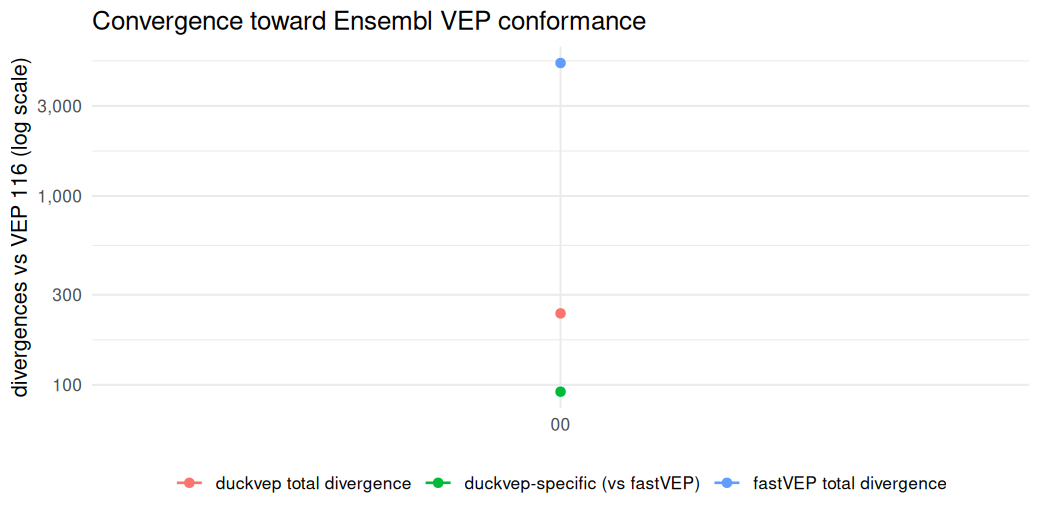
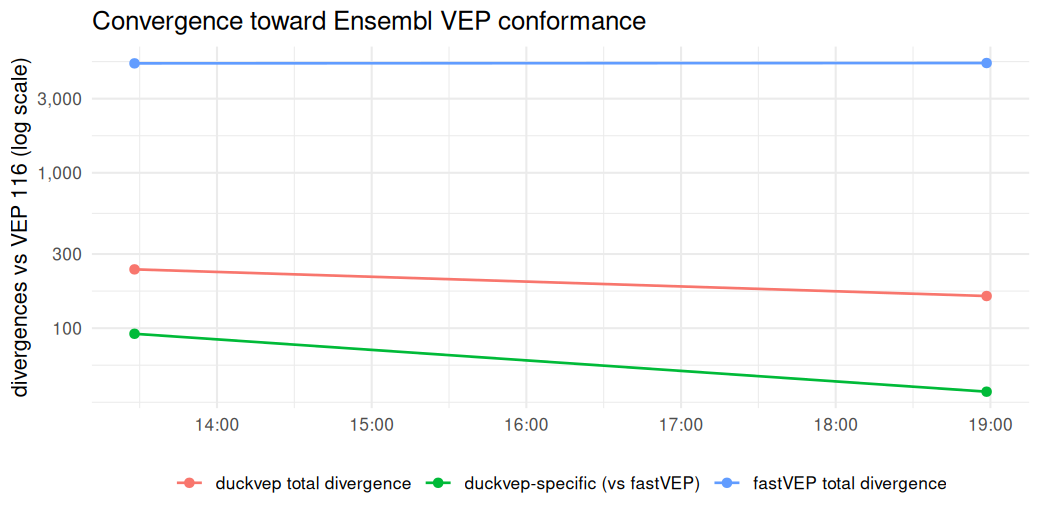
correctness: record the splice-fix win — duckvep 239->161 total, 92->39 specific (loop iter 4)
Full N=50000 ClinVar concordance after the predictor.rs splice-interval fix (82a3fa2):
  duckvep_total_divergence  239 -> 161  (-78)
  duckvep_specific_on_shared 92 -> 39   (-53, the splice-over-call sub-pattern closed)
  fastVEP unchanged (~5063); regression suite 35/35; witness fuzzer 71 / 0 duckvep-specific (no regression).

conformance_history.csv now has 2 runs, so the convergence plot shows the downward step; the README
and correctness.md headline numbers (read inline from the CSVs) update to 161/39 automatically. The
remaining 39 duckvep-specific are the inframe_insertion->protein_altering codon-projection sub-pattern.

diff --git a/correctness/correctness.md b/correctness/correctness.md
@@ -58,23 +58,24 @@ controlled VEP 116.
 | impact   | class |  pairs | duckvep err (rate) | fastvep err (rate) |
 |:---------|:------|-------:|:-------------------|:-------------------|
 | HIGH     | del   |  24631 | 16 (65/100K)       | 2146 (8713/100K)   |
-| HIGH     | ins   |  10447 | 81 (775/100K)      | 515 (4930/100K)    |
+| HIGH     | ins   |  10447 | 40 (383/100K)      | 515 (4930/100K)    |
 | HIGH     | mnv   |    312 | 0 (0/100K)         | 116 (37179/100K)   |
 | HIGH     | snv   |  43184 | 1 (2/100K)         | 20 (46/100K)       |
 | MODERATE | del   |   3570 | 0 (0/100K)         | 180 (5042/100K)    |
-| MODERATE | ins   |   1910 | 50 (2618/100K)     | 109 (5707/100K)    |
+| MODERATE | ins   |   1910 | 44 (2304/100K)     | 109 (5707/100K)    |
 | MODERATE | mnv   |   1484 | 0 (0/100K)         | 311 (20957/100K)   |
 | MODERATE | snv   | 407271 | 0 (0/100K)         | NA                 |
-| MODERATE | snv   | 407270 | NA                 | 1 (0/100K)         |
+| MODERATE | snv   | 407255 | NA                 | 1 (0/100K)         |
 | LOW      | del   |   7269 | 31 (426/100K)      | 1123 (15449/100K)  |
 | LOW      | ins   |   3522 | 0 (0/100K)         | 407 (11556/100K)   |
 | LOW      | mnv   |    174 | 0 (0/100K)         | 1 (575/100K)       |
-| LOW      | snv   | 212558 | 0 (0/100K)         | 37 (17/100K)       |
+| LOW      | snv   | 212558 | 0 (0/100K)         | NA                 |
+| LOW      | snv   | 212557 | NA                 | 37 (17/100K)       |
 | MODIFIER | del   |  36247 | 0 (0/100K)         | 20 (55/100K)       |
-| MODIFIER | ins   |  19351 | 31 (160/100K)      | 9 (47/100K)        |
+| MODIFIER | ins   |  19351 | 0 (0/100K)         | 9 (47/100K)        |
 | MODIFIER | mnv   |   2037 | 0 (0/100K)         | 0 (0/100K)         |
 | MODIFIER | snv   | 664797 | 0 (0/100K)         | NA                 |
-| MODIFIER | snv   | 664791 | NA                 | 30 (5/100K)        |
+| MODIFIER | snv   | 664781 | NA                 | 30 (5/100K)        |
 
 Error rate is **per 100,000 (variant, transcript) pairs** — comparable
 across classes despite very different pair counts.
@@ -86,7 +87,7 @@ across classes despite very different pair counts.
   below fastVEP (MODERATE 0/100K vs duckvep 0/100K), thanks to the
   incomplete-CDS / non-ATG-start patches (see `../docs/PATCHES.md`).
 - **Indels and MNVs are the residual frontier**, concentrated at HIGH
-  impact — duckvep error rate HIGH del 65/100K, HIGH ins 775/100K, HIGH
+  impact — duckvep error rate HIGH del 65/100K, HIGH ins 383/100K, HIGH
   mnv 0/100K (vs SNV 2/100K). These are the clinically actionable sites
   an aggregate % would bury.
 - **The indel/MNV frontier is partly duckvep-specific.** Engines are
@@ -94,9 +95,9 @@ across classes despite very different pair counts.
   normalized form — VEP and duckvep 3’-shift indels differently, so a
   normalized-key join compares mismatched pairs and hides real
   regressions; that earlier join was a measurement artifact). On this
-  keying, duckvep diverges on 210 shared pairs + 29 emission = 239
-  total, of which **92 are duckvep-specific** (fastVEP matches VEP), vs
-  fastVEP’s 5,063. Those are boundary indels where VEP 3’-shifts the
+  keying, duckvep diverges on 132 shared pairs + 29 emission = 161
+  total, of which **39 are duckvep-specific** (fastVEP matches VEP), vs
+  fastVEP’s 5,089. Those are boundary indels where VEP 3’-shifts the
   allele before calling consequence; the rest are gaps shared with
   fastVEP.
 
@@ -126,19 +127,19 @@ so the split between duckvep-specific regressions and gaps shared with
 fastVEP is visible; generated from
 `correctness/data/discordance_by_consequence.csv`:
 
-| SO term (VEP)            | impact |  pairs | duckvep disc (rate) | fastvep disc (rate) |
-|:-------------------------|:-------|-------:|:--------------------|:--------------------|
-| frameshift_variant       | HIGH   | 31,901 | 67 (210/100K)       | 537 (1683/100K)     |
-| stop_gained              | HIGH   | 17,777 | 58 (326/100K)       | 484 (2723/100K)     |
-| NMD_transcript_variant   | HIGH   | 14,954 | 39 (261/100K)       | 666 (4454/100K)     |
-| protein_altering_variant | HIGH   |     22 | 14 (63636/100K)     | 22 (100000/100K)    |
-| start_lost               | HIGH   |    888 | 7 (788/100K)        | 111 (12500/100K)    |
-| stop_lost                | HIGH   |    405 | 7 (1728/100K)       | 71 (17531/100K)     |
-| 5_prime_UTR_variant      | HIGH   |    175 | 5 (2857/100K)       | 161 (92000/100K)    |
-| 3_prime_UTR_variant      | HIGH   |    363 | 1 (275/100K)        | 303 (83471/100K)    |
-| intron_variant           | HIGH   |  1,696 | 1 (59/100K)         | 1696 (100000/100K)  |
-| splice_acceptor_variant  | HIGH   | 12,150 | 1 (8/100K)          | 841 (6922/100K)     |
-| stop_retained_variant    | HIGH   |     37 | 1 (2703/100K)       | 37 (100000/100K)    |
+| SO term (VEP)               | impact |  pairs | duckvep disc (rate) | fastvep disc (rate) |
+|:----------------------------|:-------|-------:|:--------------------|:--------------------|
+| intron_variant              | HIGH   |  1,696 | 40 (2358/100K)      | 1696 (100000/100K)  |
+| splice_donor_region_variant | HIGH   |    326 | 39 (11963/100K)     | 326 (100000/100K)   |
+| splice_donor_variant        | HIGH   | 16,028 | 39 (243/100K)       | 1328 (8286/100K)    |
+| NMD_transcript_variant      | HIGH   | 14,954 | 14 (94/100K)        | 666 (4454/100K)     |
+| start_lost                  | HIGH   |    888 | 7 (788/100K)        | 111 (12500/100K)    |
+| stop_lost                   | HIGH   |    405 | 7 (1728/100K)       | 71 (17531/100K)     |
+| 5_prime_UTR_variant         | HIGH   |    175 | 5 (2857/100K)       | 161 (92000/100K)    |
+| 3_prime_UTR_variant         | HIGH   |    363 | 1 (275/100K)        | 303 (83471/100K)    |
+| frameshift_variant          | HIGH   | 31,901 | 1 (3/100K)          | 537 (1683/100K)     |
+| splice_acceptor_variant     | HIGH   | 12,150 | 1 (8/100K)          | 841 (6922/100K)     |
+| stop_retained_variant       | HIGH   |     37 | 1 (2703/100K)       | 37 (100000/100K)    |
 
 A pair is discordant when its **whole** `&`-joined SO set differs; this
 table credits that to each term VEP called, so a 100% rate means *every*
@@ -162,24 +163,24 @@ than the upstream engine** (something our patches broke), `shared` =
 both engines differ from VEP (an inherited engine gap). Generated from
 `correctness/data/error_transitions.csv`.
 
-| type       | impact   | VEP calls                                                                    | duckvep calls                                                                                |   n |
-|:-----------|:---------|:-----------------------------------------------------------------------------|:---------------------------------------------------------------------------------------------|----:|
-| shared     | LOW      | stop_retained_variant                                                        | stop_lost                                                                                    |  28 |
-| shared     | HIGH     | NMD_transcript_variant&frameshift_variant&stop_gained                        | NMD_transcript_variant&frameshift_variant&intron_variant&splice_acceptor_variant&stop_gained |  28 |
-| regression | HIGH     | frameshift_variant                                                           | frameshift_variant&splice_region_variant                                                     |  21 |
-| regression | MODERATE | NMD_transcript_variant&inframe_insertion&splice_region_variant               | NMD_transcript_variant&protein_altering_variant&splice_region_variant                        |  20 |
-| regression | MODERATE | inframe_insertion&splice_region_variant                                      | protein_altering_variant&splice_region_variant                                               |  19 |
-| shared     | HIGH     | frameshift_variant&stop_gained                                               | frameshift_variant&intron_variant&splice_acceptor_variant&stop_gained                        |  16 |
-| shared     | HIGH     | protein_altering_variant&stop_gained                                         | protein_altering_variant&splice_region_variant&stop_gained                                   |  12 |
-| regression | MODIFIER | 5_prime_UTR_variant&NMD_transcript_variant                                   | 5_prime_UTR_variant&NMD_transcript_variant&intron_variant&splice_acceptor_variant            |  10 |
-| regression | MODIFIER | 5_prime_UTR_variant                                                          | 5_prime_UTR_variant&intron_variant&splice_acceptor_variant                                   |   9 |
-| regression | MODIFIER | non_coding_transcript_exon_variant                                           | intron_variant&non_coding_transcript_exon_variant&splice_acceptor_variant                    |   7 |
-| shared     | HIGH     | NMD_transcript_variant&stop_lost                                             | NMD_transcript_variant&inframe_deletion&stop_lost                                            |   6 |
-| shared     | MODERATE | protein_altering_variant                                                     | intron_variant&protein_altering_variant&splice_donor_5th_base_variant&splice_donor_variant   |   5 |
-| shared     | MODERATE | inframe_insertion&stop_retained_variant                                      | inframe_insertion&stop_gained                                                                |   3 |
-| regression | MODIFIER | 3_prime_UTR_variant&NMD_transcript_variant                                   | 3_prime_UTR_variant&NMD_transcript_variant&intron_variant&splice_acceptor_variant            |   2 |
-| shared     | HIGH     | 5_prime_UTR_variant&start_lost                                               | 5_prime_UTR_variant&coding_sequence_variant                                                  |   2 |
-| shared     | HIGH     | 5_prime_UTR_variant&NMD_transcript_variant&start_lost&start_retained_variant | 5_prime_UTR_variant&NMD_transcript_variant&start_lost                                        |   2 |
+| type       | impact   | VEP calls                                                                              | duckvep calls                                                                                                                |   n |
+|:-----------|:---------|:---------------------------------------------------------------------------------------|:-----------------------------------------------------------------------------------------------------------------------------|----:|
+| shared     | HIGH     | intron_variant&splice_donor_region_variant&splice_donor_variant                        | intron_variant&splice_donor_region_variant                                                                                   |  33 |
+| shared     | LOW      | stop_retained_variant                                                                  | stop_lost                                                                                                                    |  28 |
+| regression | MODERATE | NMD_transcript_variant&inframe_insertion&splice_region_variant                         | NMD_transcript_variant&protein_altering_variant&splice_region_variant                                                        |  20 |
+| regression | MODERATE | inframe_insertion&splice_region_variant                                                | protein_altering_variant&splice_region_variant                                                                               |  19 |
+| shared     | HIGH     | NMD_transcript_variant&stop_lost                                                       | NMD_transcript_variant&inframe_deletion&stop_lost                                                                            |   6 |
+| shared     | HIGH     | NMD_transcript_variant&intron_variant&splice_donor_region_variant&splice_donor_variant | NMD_transcript_variant&intron_variant&splice_donor_region_variant                                                            |   6 |
+| shared     | MODERATE | inframe_insertion&stop_retained_variant                                                | inframe_insertion&stop_gained                                                                                                |   3 |
+| shared     | HIGH     | transcript_ablation                                                                    | intron_variant&non_coding_transcript_exon_variant&splice_acceptor_variant&splice_donor_5th_base_variant&splice_donor_variant |   2 |
+| shared     | HIGH     | 5_prime_UTR_variant&NMD_transcript_variant&start_lost&start_retained_variant           | 5_prime_UTR_variant&NMD_transcript_variant&start_lost                                                                        |   2 |
+| shared     | MODERATE | inframe_insertion&splice_region_variant&stop_retained_variant                          | inframe_insertion&splice_region_variant&stop_gained                                                                          |   2 |
+| shared     | HIGH     | 5_prime_UTR_variant&start_lost                                                         | 5_prime_UTR_variant&coding_sequence_variant                                                                                  |   2 |
+| shared     | LOW      | 3_prime_UTR_variant&coding_sequence_variant&incomplete_terminal_codon_variant          | 3_prime_UTR_variant&coding_sequence_variant                                                                                  |   1 |
+| shared     | HIGH     | 5_prime_UTR_variant&start_lost&start_retained_variant                                  | 5_prime_UTR_variant&start_lost                                                                                               |   1 |
+| shared     | HIGH     | frameshift_variant&stop_lost                                                           | frameshift_variant                                                                                                           |   1 |
+| shared     | HIGH     | 3_prime_UTR_variant&intron_variant&splice_acceptor_variant&stop_retained_variant       | 3_prime_UTR_variant&coding_sequence_variant&intron_variant&splice_acceptor_variant                                           |   1 |
+| shared     | HIGH     | transcript_ablation                                                                    | 3_prime_UTR_variant&5_prime_UTR_variant&coding_sequence_variant                                                              |   1 |
 
 ### Split by SO term (fair to fastVEP)
 
@@ -196,29 +197,28 @@ is not masked by the rest of its string. Generated from
 
 | type       | impact   | VEP term(s)                                        | duckvep term(s)                                                                                                              |   n |
 |:-----------|:---------|:---------------------------------------------------|:-----------------------------------------------------------------------------------------------------------------------------|----:|
-| regression | HIGH     | (none)                                             | intron_variant&splice_acceptor_variant                                                                                       |  44 |
+| shared     | HIGH     | splice_donor_variant                               | (none)                                                                                                                       |  39 |
 | regression | MODERATE | inframe_insertion                                  | protein_altering_variant                                                                                                     |  39 |
-| regression | HIGH     | (none)                                             | splice_region_variant                                                                                                        |  36 |
 | shared     | LOW      | stop_retained_variant                              | stop_lost                                                                                                                    |  28 |
-| regression | MODIFIER | (none)                                             | intron_variant&splice_acceptor_variant                                                                                       |  28 |
 | shared     | HIGH     | (none)                                             | inframe_deletion                                                                                                             |   6 |
-| regression | MODERATE | (none)                                             | intron_variant&splice_donor_5th_base_variant&splice_donor_variant                                                            |   6 |
 | shared     | MODERATE | stop_retained_variant                              | stop_gained                                                                                                                  |   5 |
 | shared     | HIGH     | start_retained_variant                             | (none)                                                                                                                       |   4 |
-| regression | MODIFIER | (none)                                             | intron_variant&splice_donor_5th_base_variant&splice_donor_variant                                                            |   2 |
-| shared     | HIGH     | transcript_ablation                                | intron_variant&non_coding_transcript_exon_variant&splice_acceptor_variant&splice_donor_5th_base_variant&splice_donor_variant |   2 |
 | shared     | HIGH     | start_lost                                         | coding_sequence_variant                                                                                                      |   2 |
-| shared     | LOW      | (none)                                             | splice_region_variant                                                                                                        |   1 |
-| shared     | HIGH     | stop_retained_variant                              | coding_sequence_variant                                                                                                      |   1 |
-| shared     | LOW      | incomplete_terminal_codon_variant                  | (none)                                                                                                                       |   1 |
+| shared     | HIGH     | transcript_ablation                                | intron_variant&non_coding_transcript_exon_variant&splice_acceptor_variant&splice_donor_5th_base_variant&splice_donor_variant |   2 |
+| shared     | HIGH     | transcript_ablation                                | 3_prime_UTR_variant&5_prime_UTR_variant&coding_sequence_variant                                                              |   1 |
 | shared     | HIGH     | inframe_deletion&start_lost&start_retained_variant | coding_sequence_variant                                                                                                      |   1 |
+| shared     | LOW      | (none)                                             | splice_region_variant                                                                                                        |   1 |
+| shared     | LOW      | stop_retained_variant                              | coding_sequence_variant                                                                                                      |   1 |
+| shared     | HIGH     | stop_retained_variant                              | coding_sequence_variant                                                                                                      |   1 |
+| shared     | HIGH     | stop_lost                                          | (none)                                                                                                                       |   1 |
+| shared     | LOW      | incomplete_terminal_codon_variant                  | (none)                                                                                                                       |   1 |
 
-At the SO-term level, **156 pairs** are duckvep-specific (fastVEP right
+At the SO-term level, **39 pairs** are duckvep-specific (fastVEP right
 on the exact differing term) — these are the only places duckvep is
 worse than upstream on a term; everything else is a shared engine gap or
 a term fastVEP also misses.
 
-**duckvep-specific regressions (whole-string): 92 pairs** (a
+**duckvep-specific regressions (whole-string): 39 pairs** (a
 `regression` is a discordance where fastVEP *matches* VEP, so our
 patches — not the inherited engine — are responsible). The
 interval-aware splice rewrite originally introduced ~1,900 such pairs;
@@ -266,15 +266,15 @@ misses. Read from `correctness/data/methodology_audit.csv`:
 
 | divergence type (controlled, 50K ClinVar) | duckvep | fastVEP |
 |:------------------------------------------|--------:|--------:|
-| consequence disagreement (shared pairs)   |     210 |   5,025 |
+| consequence disagreement (shared pairs)   |     132 |   5,025 |
 | extra pairs the tool emits, VEP does not  |      29 |      31 |
-| pairs VEP emits, the tool misses          |       0 |       7 |
-| TOTAL divergence vs VEP 116               |     239 |   5,063 |
+| pairs VEP emits, the tool misses          |       0 |      33 |
+| TOTAL divergence vs VEP 116               |     161 |   5,089 |
 
 With the gene model controlled, the emission gap is tiny in both
 directions, so the comparison is genuinely pure-engine — and counting
-*all* divergence (consequence + extra + missing), **duckvep totals 239
-vs fastVEP 5,063** of ~1.43M pairs. The duckvep residual is dominated by
+*all* divergence (consequence + extra + missing), **duckvep totals 161
+vs fastVEP 5,089** of ~1.43M pairs. The duckvep residual is dominated by
 consequence-engine edges (start-codon straddle, boundary insertion); the
 27 extras are 5′/3′-distance-window boundary cases. The fastVEP paper’s
 100% held only because its validation set is 173 SNVs.

diff --git a/README.md b/README.md
@@ -24,11 +24,11 @@ loading.
 Concordance with Ensembl VEP is measured rather than assumed. On a
 controlled `--gff` setup, where VEP, duckvep and the vendored fastVEP
 read the same gene model and results are keyed to the original input
-variant, duckvep diverges from VEP on 239 of roughly 1.44M
-variant/transcript pairs (N=50,000 ClinVar variants): 210 with a
+variant, duckvep diverges from VEP on 161 of roughly 1.44M
+variant/transcript pairs (N=50,000 ClinVar variants): 132 with a
 different consequence on a shared pair plus 29 emission differences. Of
-the shared-pair disagreements, 92 are duckvep-specific (fastVEP matches
-VEP where duckvep does not); fastVEP itself diverges on 5,063 pairs. The
+the shared-pair disagreements, 39 are duckvep-specific (fastVEP matches
+VEP where duckvep does not); fastVEP itself diverges on 5,089 pairs. The
 remaining duckvep cases are boundary indels where VEP 3’-shifts the
 allele before calling consequence. The reports under
 [`conformance/`](conformance/) are stratified by consequence term,
@@ -322,11 +322,11 @@ indels and MNVs at exon/splice boundaries.
 | impact   | class | duckvep /100K | fastVEP /100K |
 |:---------|:------|:--------------|:--------------|
 | HIGH     | del   | 65/100K       | 8713/100K     |
-| HIGH     | ins   | 775/100K      | 4930/100K     |
+| HIGH     | ins   | 383/100K      | 4930/100K     |
 | HIGH     | mnv   | 0/100K        | 37179/100K    |
 | HIGH     | snv   | 2/100K        | 46/100K       |
 | MODERATE | del   | 0/100K        | 5042/100K     |
-| MODERATE | ins   | 2618/100K     | 5707/100K     |
+| MODERATE | ins   | 2304/100K     | 5707/100K     |
 | MODERATE | mnv   | 0/100K        | 20957/100K    |
 | MODERATE | snv   | 0/100K        | 0/100K        |
 | LOW      | del   | 426/100K      | 15449/100K    |
@@ -334,7 +334,7 @@ indels and MNVs at exon/splice boundaries.
 | LOW      | mnv   | 0/100K        | 575/100K      |
 | LOW      | snv   | 0/100K        | 17/100K       |
 | MODIFIER | del   | 0/100K        | 55/100K       |
-| MODIFIER | ins   | 160/100K      | 47/100K       |
+| MODIFIER | ins   | 0/100K        | 47/100K       |
 | MODIFIER | mnv   | 0/100K        | 0/100K        |
 | MODIFIER | snv   | 0/100K        | 5/100K        |
 
@@ -349,16 +349,16 @@ fastVEP matches VEP (`regression` = duckvep worse than upstream;
 `shared` = inherited engine gap) — top by pair count, generated from
 `correctness/data/error_transitions.csv`:
 
-| type       | impact   | VEP calls                                                      | duckvep calls                                                                                |   n |
-|:-----------|:---------|:---------------------------------------------------------------|:---------------------------------------------------------------------------------------------|----:|
-| shared     | LOW      | stop_retained_variant                                          | stop_lost                                                                                    |  28 |
-| shared     | HIGH     | NMD_transcript_variant&frameshift_variant&stop_gained          | NMD_transcript_variant&frameshift_variant&intron_variant&splice_acceptor_variant&stop_gained |  28 |
-| regression | HIGH     | frameshift_variant                                             | frameshift_variant&splice_region_variant                                                     |  21 |
-| regression | MODERATE | NMD_transcript_variant&inframe_insertion&splice_region_variant | NMD_transcript_variant&protein_altering_variant&splice_region_variant                        |  20 |
-| regression | MODERATE | inframe_insertion&splice_region_variant                        | protein_altering_variant&splice_region_variant                                               |  19 |
-| shared     | HIGH     | frameshift_variant&stop_gained                                 | frameshift_variant&intron_variant&splice_acceptor_variant&stop_gained                        |  16 |
-| shared     | HIGH     | protein_altering_variant&stop_gained                           | protein_altering_variant&splice_region_variant&stop_gained                                   |  12 |
-| regression | MODIFIER | 5_prime_UTR_variant&NMD_transcript_variant                     | 5_prime_UTR_variant&NMD_transcript_variant&intron_variant&splice_acceptor_variant            |  10 |
+| type       | impact   | VEP calls                                                                              | duckvep calls                                                                                                                |   n |
+|:-----------|:---------|:---------------------------------------------------------------------------------------|:-----------------------------------------------------------------------------------------------------------------------------|----:|
+| shared     | HIGH     | intron_variant&splice_donor_region_variant&splice_donor_variant                        | intron_variant&splice_donor_region_variant                                                                                   |  33 |
+| shared     | LOW      | stop_retained_variant                                                                  | stop_lost                                                                                                                    |  28 |
+| regression | MODERATE | NMD_transcript_variant&inframe_insertion&splice_region_variant                         | NMD_transcript_variant&protein_altering_variant&splice_region_variant                                                        |  20 |
+| regression | MODERATE | inframe_insertion&splice_region_variant                                                | protein_altering_variant&splice_region_variant                                                                               |  19 |
+| shared     | HIGH     | NMD_transcript_variant&stop_lost                                                       | NMD_transcript_variant&inframe_deletion&stop_lost                                                                            |   6 |
+| shared     | HIGH     | NMD_transcript_variant&intron_variant&splice_donor_region_variant&splice_donor_variant | NMD_transcript_variant&intron_variant&splice_donor_region_variant                                                            |   6 |
+| shared     | MODERATE | inframe_insertion&stop_retained_variant                                                | inframe_insertion&stop_gained                                                                                                |   3 |
+| shared     | HIGH     | transcript_ablation                                                                    | intron_variant&non_coding_transcript_exon_variant&splice_acceptor_variant&splice_donor_5th_base_variant&splice_donor_variant |   2 |
 
 The open work splits into **duckvep-specific regressions** (mainly
 splice sub-term precedence on boundary indels, where VEP 3’-shifts the
@@ -392,7 +392,7 @@ methodology, are in **[`benchmarks/results.md`](benchmarks/results.md)**
 The main accuracy work is to port VEP’s `TranscriptVariationAllele`
 coordinate layer (the cDNA/CDS/protein mapper, `codon()`/`peptide()`,
 and the start/stop/frameshift predicates). VEP 3’-shifts an indel before
-calling consequence; duckvep does not yet, which is the source of the 92
+calling consequence; duckvep does not yet, which is the source of the 39
 duckvep-specific boundary-indel divergences in the conformance report.
 Porting that layer replaces the current windowed-peptide surrogate with
 VEP’s own coordinate model and is what would turn the differential